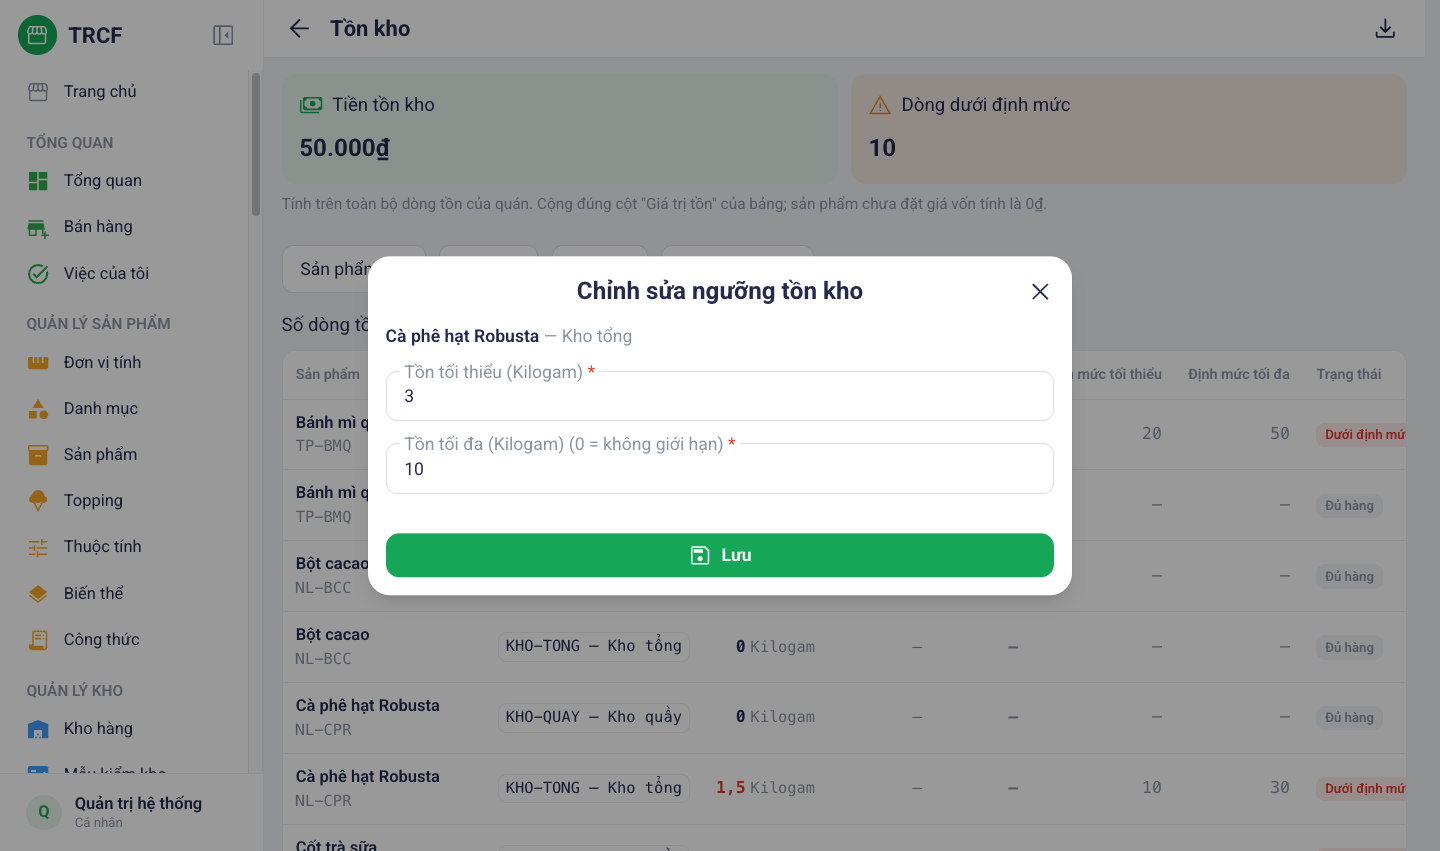
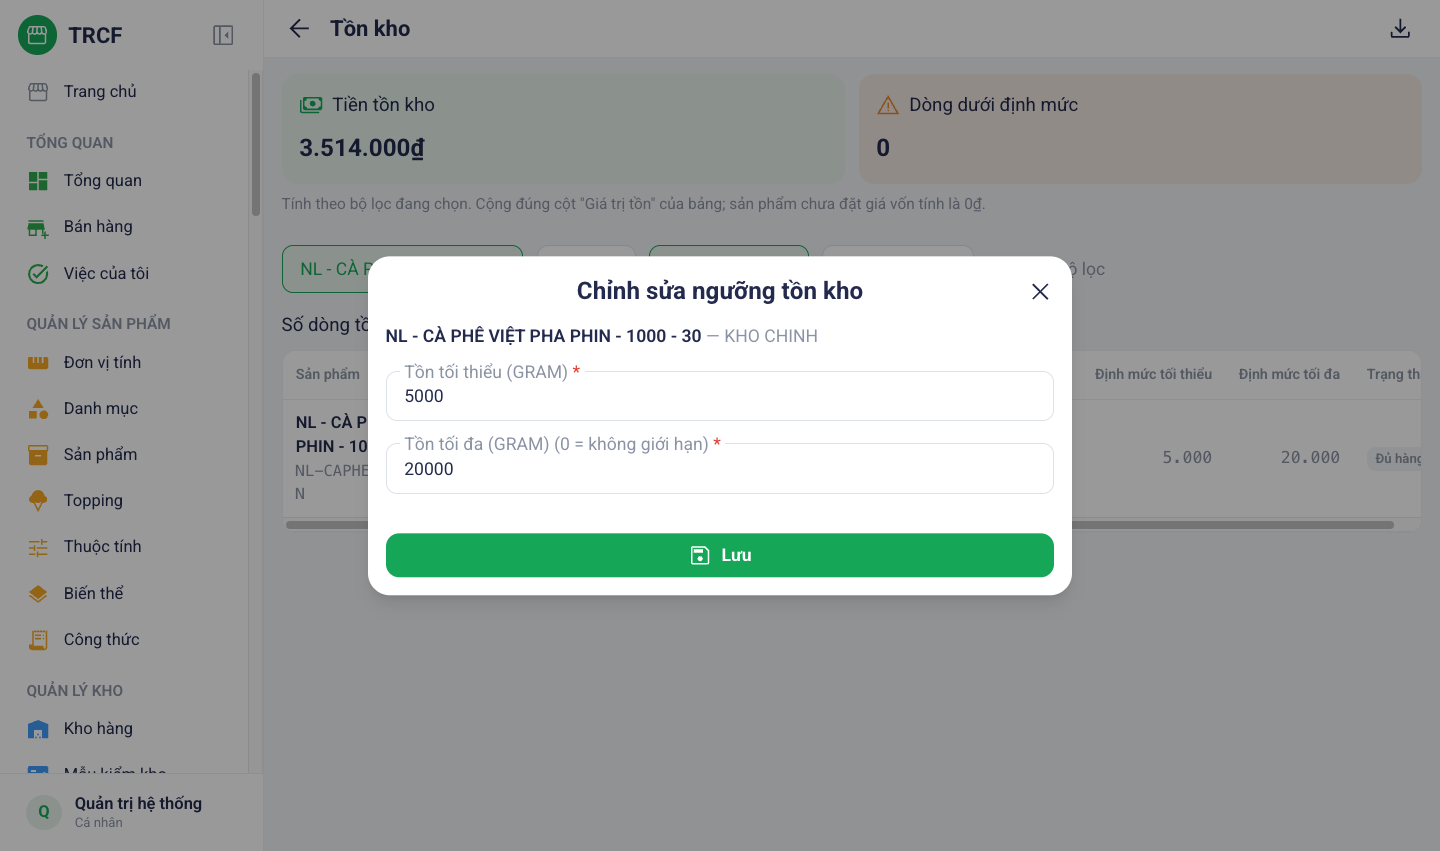
docs(6.1, 6.2): ví dụ theo dữ liệu thật — mẫu SỮA/BÁNH/TRÁI CÂY/KEM, định mức cà phê phin

diff --git a/noi-dung/6-2-dinh-muc-ton-kho.md b/noi-dung/6-2-dinh-muc-ton-kho.md
@@ -13,15 +13,16 @@ Menu trái: ==Quản lý kho → Tồn kho== (địa chỉ `/stock`).
 
 ## 2. Ví dụ nền và các bước thực hiện
 
-> **Ví dụ:** khai định mức cho **Cà phê hạt Robusta** ở **Kho tổng**, đơn vị Kilogam.
+> **Ví dụ:** khai định mức cho **NL - CÀ PHÊ VIỆT PHA PHIN - 1000 - 30** ở **KHO CHINH**, đơn vị GRAM.
 >
-> - Tồn tối thiểu: **3** kg. Tồn tối đa: **10** kg.
-> - Hàng giao trong 2 ngày, mỗi ngày dùng 1 kg: tối thiểu là 1 × 2 × 1,5 = 3 kg.
+> - Tồn tối thiểu: **5.000** GR (5 túi). Tồn tối đa: **20.000** GR (20 túi).
+> - Mỗi ngày dùng khoảng 1.700 GR, nhà cung cấp giao sau 2 ngày: 1.700 × 2 × 1,5 ≈ 5.000 GR.
 
 ### Bước 1: Mở trang Tồn kho
 
 - Ở menu trái, nhóm **Quản lý kho**, bấm **Tồn kho**.
-- Tìm dòng **Cà phê hạt Robusta** ở kho **KHO-TONG — Kho tổng**. Mỗi dòng là một sản phẩm ở một kho.
+- Bấm **Sản phẩm**, chọn **NL - CÀ PHÊ VIỆT PHA PHIN - 1000 - 30**. Bấm **Kho**, chọn **KHO CHINH**.
+- Mỗi dòng là một sản phẩm ở một kho.
 
 ![Bước 1: Mở trang Tồn kho](images/06-dinh-muc-buoc-1-ton-kho.png)
 
@@ -34,11 +35,11 @@ Menu trái: ==Quản lý kho → Tồn kho== (địa chỉ `/stock`).
 
 ### Bước 3: Kiểm tra kết quả
 
-- Thấy thông báo *“Đã cập nhật ngưỡng tồn kho”*.
-- Tồn thấp hơn tối thiểu thì dòng hiện **Dưới định mức** và được đếm vào ô **Dòng dưới định mức**.
+- Thấy thông báo *“Đã cập nhật ngưỡng tồn kho”*. Cột **Trạng thái** hiện **Đủ hàng** (đang tồn 14.000 GR).
+- Tồn xuống dưới 5.000 GR thì dòng hiện **Dưới định mức** và được đếm vào ô **Dòng dưới định mức**.
 - Bấm nút **Dưới định mức** để chỉ xem các dòng cần nhập thêm. Bấm **Xoá bộ lọc** để xem lại tất cả.
 
-![Bước 3: Lọc các dòng dưới định mức](images/06-dinh-muc-buoc-3-ket-qua.png)
+![Bước 3: Kiểm tra trạng thái tồn](images/06-dinh-muc-buoc-3-ket-qua.png)
 
 ## 3. Giải thích các trường
 

diff --git a/noi-dung/6-1-tao-mau-kiem-kho.md b/noi-dung/6-1-tao-mau-kiem-kho.md
@@ -13,10 +13,10 @@ Menu trái: ==Quản lý kho → Mẫu kiểm kho== (địa chỉ `/stock-templa
 
 ## 2. Ví dụ nền và các bước thực hiện
 
-> **Ví dụ:** mẫu đếm hàng khô cuối tuần cho **Kho tổng**.
+> **Ví dụ:** mẫu đếm hàng tươi ở quầy: **SỮA/BÁNH/TRÁI CÂY/KEM**, kho **KHO QUẦY**.
 >
-> - Tên: **Kho khô**. Kho: **Kho tổng**. Ghi chú: **Đếm cuối tuần**.
-> - Danh sách: **Cà phê hạt Robusta**, **Sữa đặc**.
+> - Danh sách 24 món: sữa tươi, whipping cream, trái cây, kem gelato, bánh croissant…
+> - Ảnh minh hoạ 6 món đầu. Quán dựng 6 mẫu theo khu: nguyên liệu, bán thành phẩm, dụng cụ, hàng tươi — mỗi kho riêng.
 
 ### Bước 1: Mở trang Mẫu kiểm kho
 
@@ -43,7 +43,7 @@ Menu trái: ==Quản lý kho → Mẫu kiểm kho== (địa chỉ `/stock-templa
 
 | Trường | Điền gì | Bắt buộc |
 | --- | --- | --- |
-| Tên mẫu kiểm | Tên mẫu, đặt theo khu vực. VD **Kho khô**, **Quầy pha chế** | ✅ |
+| Tên mẫu kiểm | Tên mẫu, đặt theo khu vực hoặc nhóm hàng. VD **NGUYÊN LIỆU - KHO QUẦY**, **DỤNG CỤ KHO CHÍNH** | ✅ |
 | Vị trí kho | Kho sẽ đếm bằng mẫu này | ✅ |
 | Mã mẫu | Tự sinh, chỉ đọc | — |
 | Ghi chú | Ghi thêm, VD lịch đếm | — |
